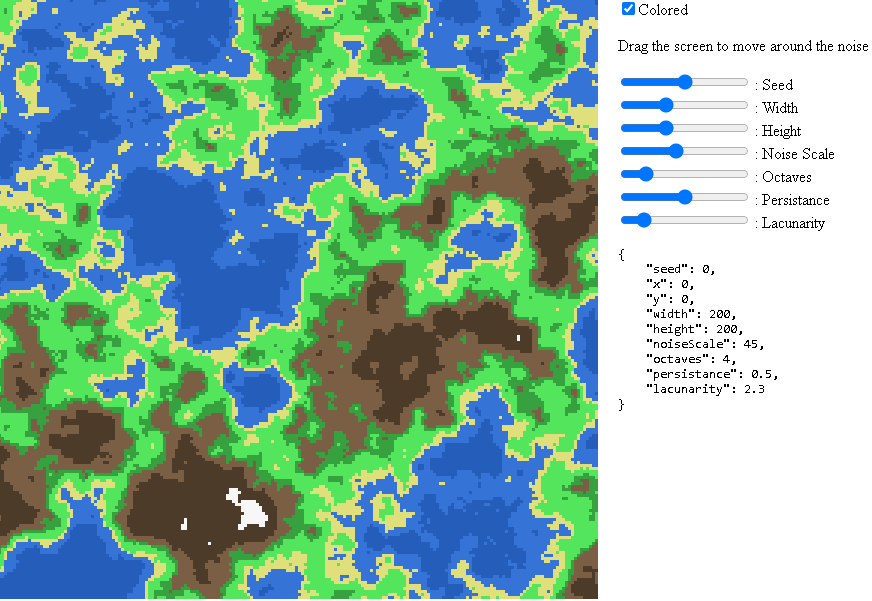
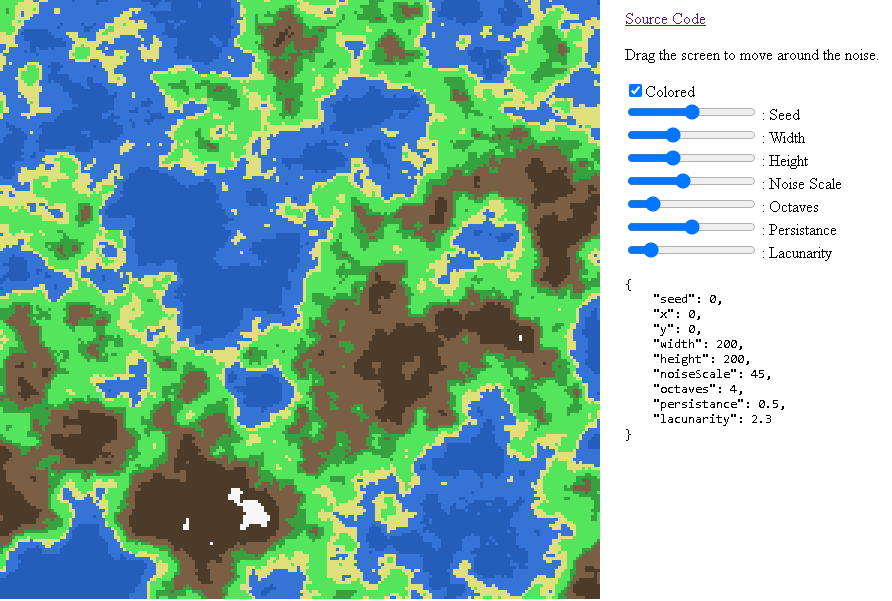
change readme

diff --git a/DomControl.js b/DomControl.js
@@ -8,11 +8,12 @@ const defaultOct = 4,
 class DomControl {
   constructor() {
     this.ui = createDiv();
-    this.ui.position(width + 20, 0);
+    this.ui.position(width + 25, 10);
     this.colorCheckbox = createCheckbox("Colored", true);
 
+    this.ui.child(createA('https://github.com/Descrout/2D-Terrain-Generator', 'Source Code'));
+    this.ui.child(createP("Drag the screen to move around the noise."));
     this.ui.child(this.colorCheckbox);
-    this.ui.child(createP("Drag the screen to move around the noise"));
 
     this.seedSlider = this.addSlider("Seed", -10000, 10000, 0);
     this.wSlider = this.addSlider("Width", 1, width, defaultW);

diff --git a/README.md b/README.md
@@ -1,4 +1,4 @@
 # 2D-Terrain-Generator
-Generates 2D terrains using perlin noise made with p5.js  
-Play with [online demo.](https://2d-terrain-gen.netlify.app/)    
+Generates random terrains using perlin noise, made with p5js.  
+Play with [online demo.](https://2d-terrain-gen.netlify.app/)      
 ![alt text](./sample.png)
